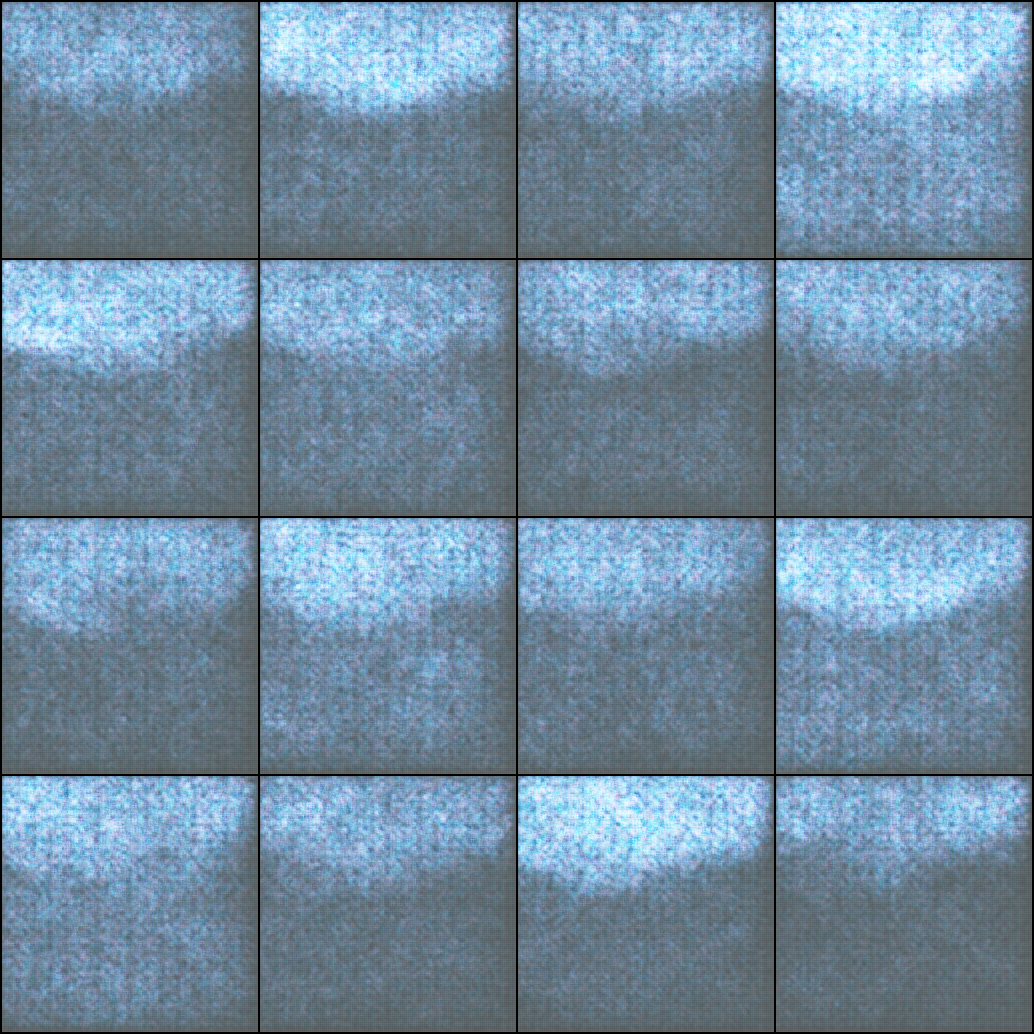
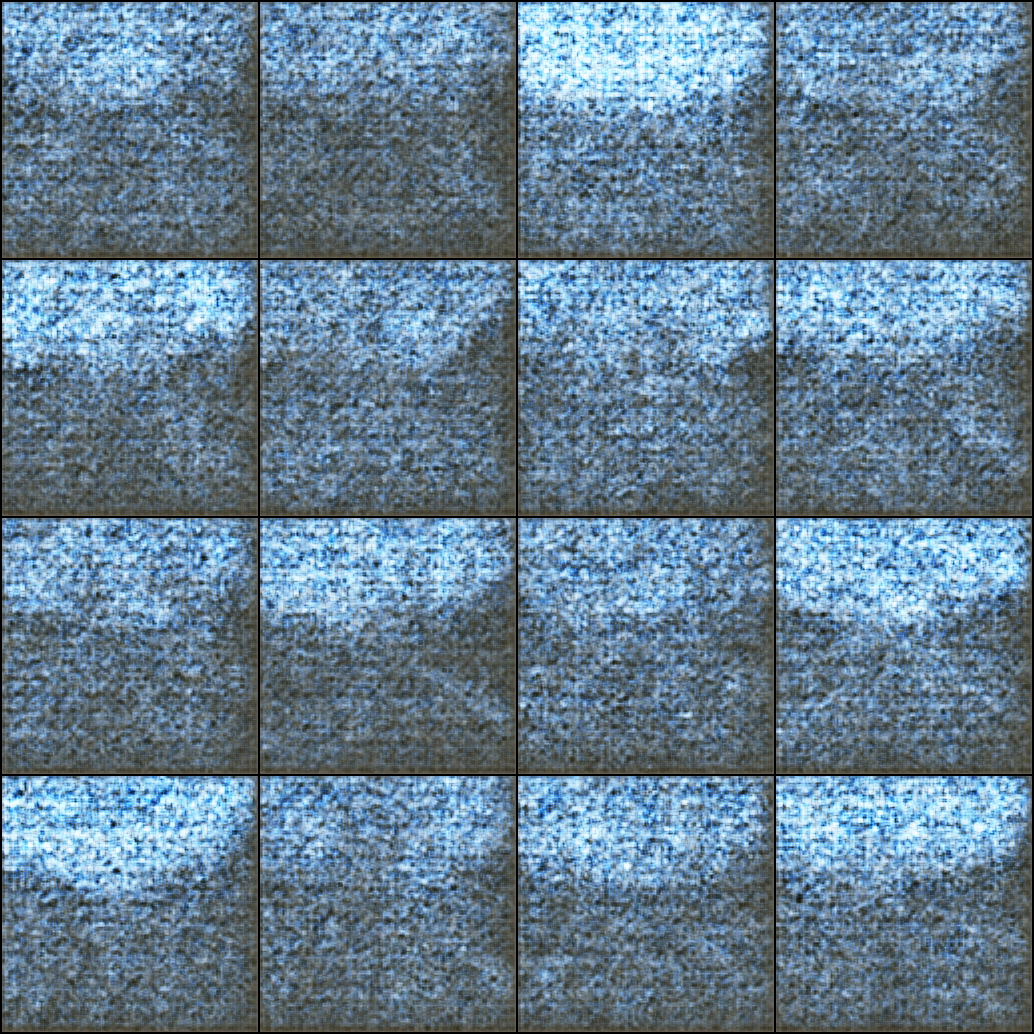
L2 loss debug

diff --git a/log/prosivic/debug/configuration.py b/log/prosivic/debug/configuration.py
@@ -36,7 +36,7 @@ class Configuration(object):
         training_mode = ("autoencoder","GPND_default")[0] # Options: "autoencoder", "GPND_default"
         # Hyperparameters
         betas = (0.5,0.999) # adam solver standard is (0.5, 0.999), GPND standard is (0.9,0.999)
-        n_train_epochs = 100
+        n_train_epochs = 500
         n_epochs_between_lr_change = int(n_train_epochs * 1/2)
         lr_drop_factor = 10
         num_sample_epochs = 10
@@ -145,6 +145,6 @@ class Configuration(object):
         out_filenames = loadbdd100k.get_namelist_from_file(out_file)
         norm_spec = [["weather", ["clear","partly cloudy", "overcast"]],["scene", "highway"],["timeofday", "daytime"]]
         out_spec = [["weather", ["rainy", "snowy", "foggy"]],["scene", "highway"],["timeofday",["daytime","dawn/dusk","night"]]]
-# Training logged at Tue, 18 Dec 2018 14:33:05 UTC
-# Total training time:	0h1m12.5s
-# Average time/epoch:	0m0.72s
+# Training logged at Tue, 18 Dec 2018 14:44:49 UTC
+# Total training time:	0h5m47.9s
+# Average time/epoch:	0m0.70s

diff --git a/train_AAE.py b/train_AAE.py
@@ -254,8 +254,8 @@ def main(folding_id, inliner_classes, total_classes, folds=5, cfg = None):
     sample = torch.randn(cfg.sample_size, zsize).view(-1, zsize)
     total_time = 0
     for epoch in range(train_epoch):
-        #G.train()
-        #E.train()
+        G.train()
+        E.train()
         if cfg.training_mode == "GPND_default":
             D.train()
             ZD.train()
@@ -372,8 +372,6 @@ def main(folding_id, inliner_classes, total_classes, folds=5, cfg = None):
                 Etrain_loss  += E_loss.item()
 
             else: # only autoencoder training
-                G.train()
-                E.train()
                 E.zero_grad()
                 G.zero_grad()
 

diff --git a/configuration.py b/configuration.py
@@ -36,7 +36,7 @@ class Configuration(object):
         training_mode = ("autoencoder","GPND_default")[0] # Options: "autoencoder", "GPND_default"
         # Hyperparameters
         betas = (0.5,0.999) # adam solver standard is (0.5, 0.999), GPND standard is (0.9,0.999)
-        n_train_epochs = 100
+        n_train_epochs = 500
         n_epochs_between_lr_change = int(n_train_epochs * 1/2)
         lr_drop_factor = 10
         num_sample_epochs = 10
